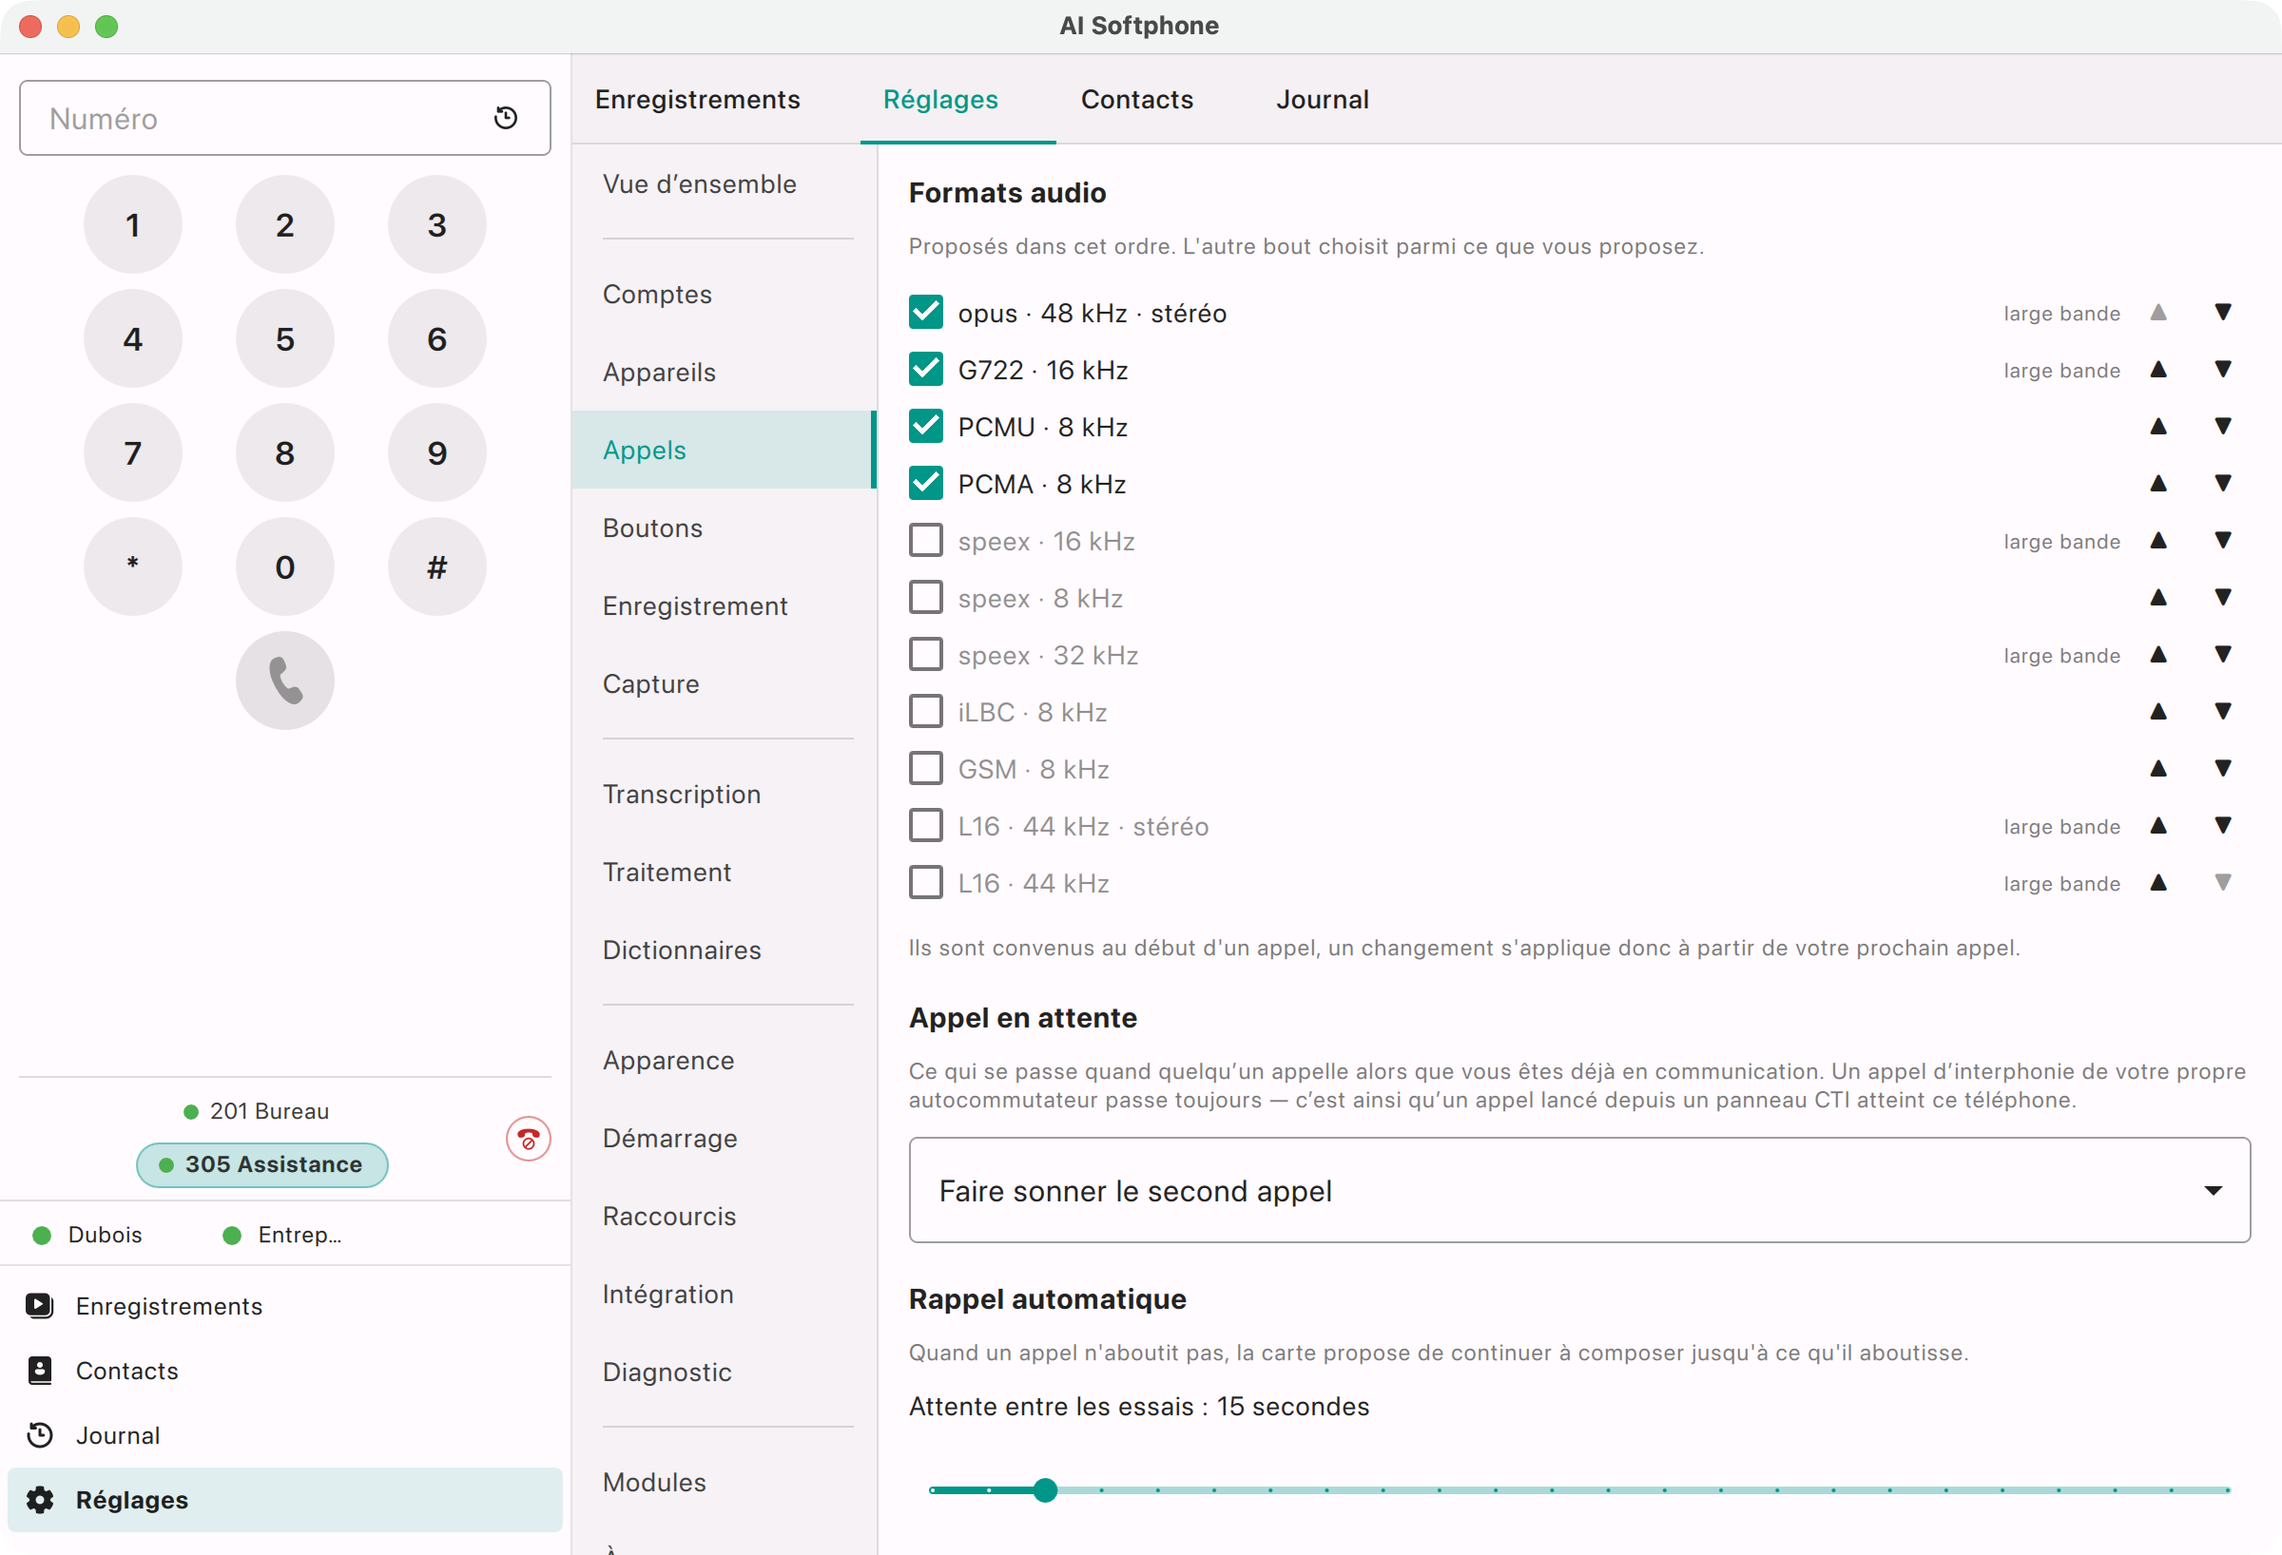
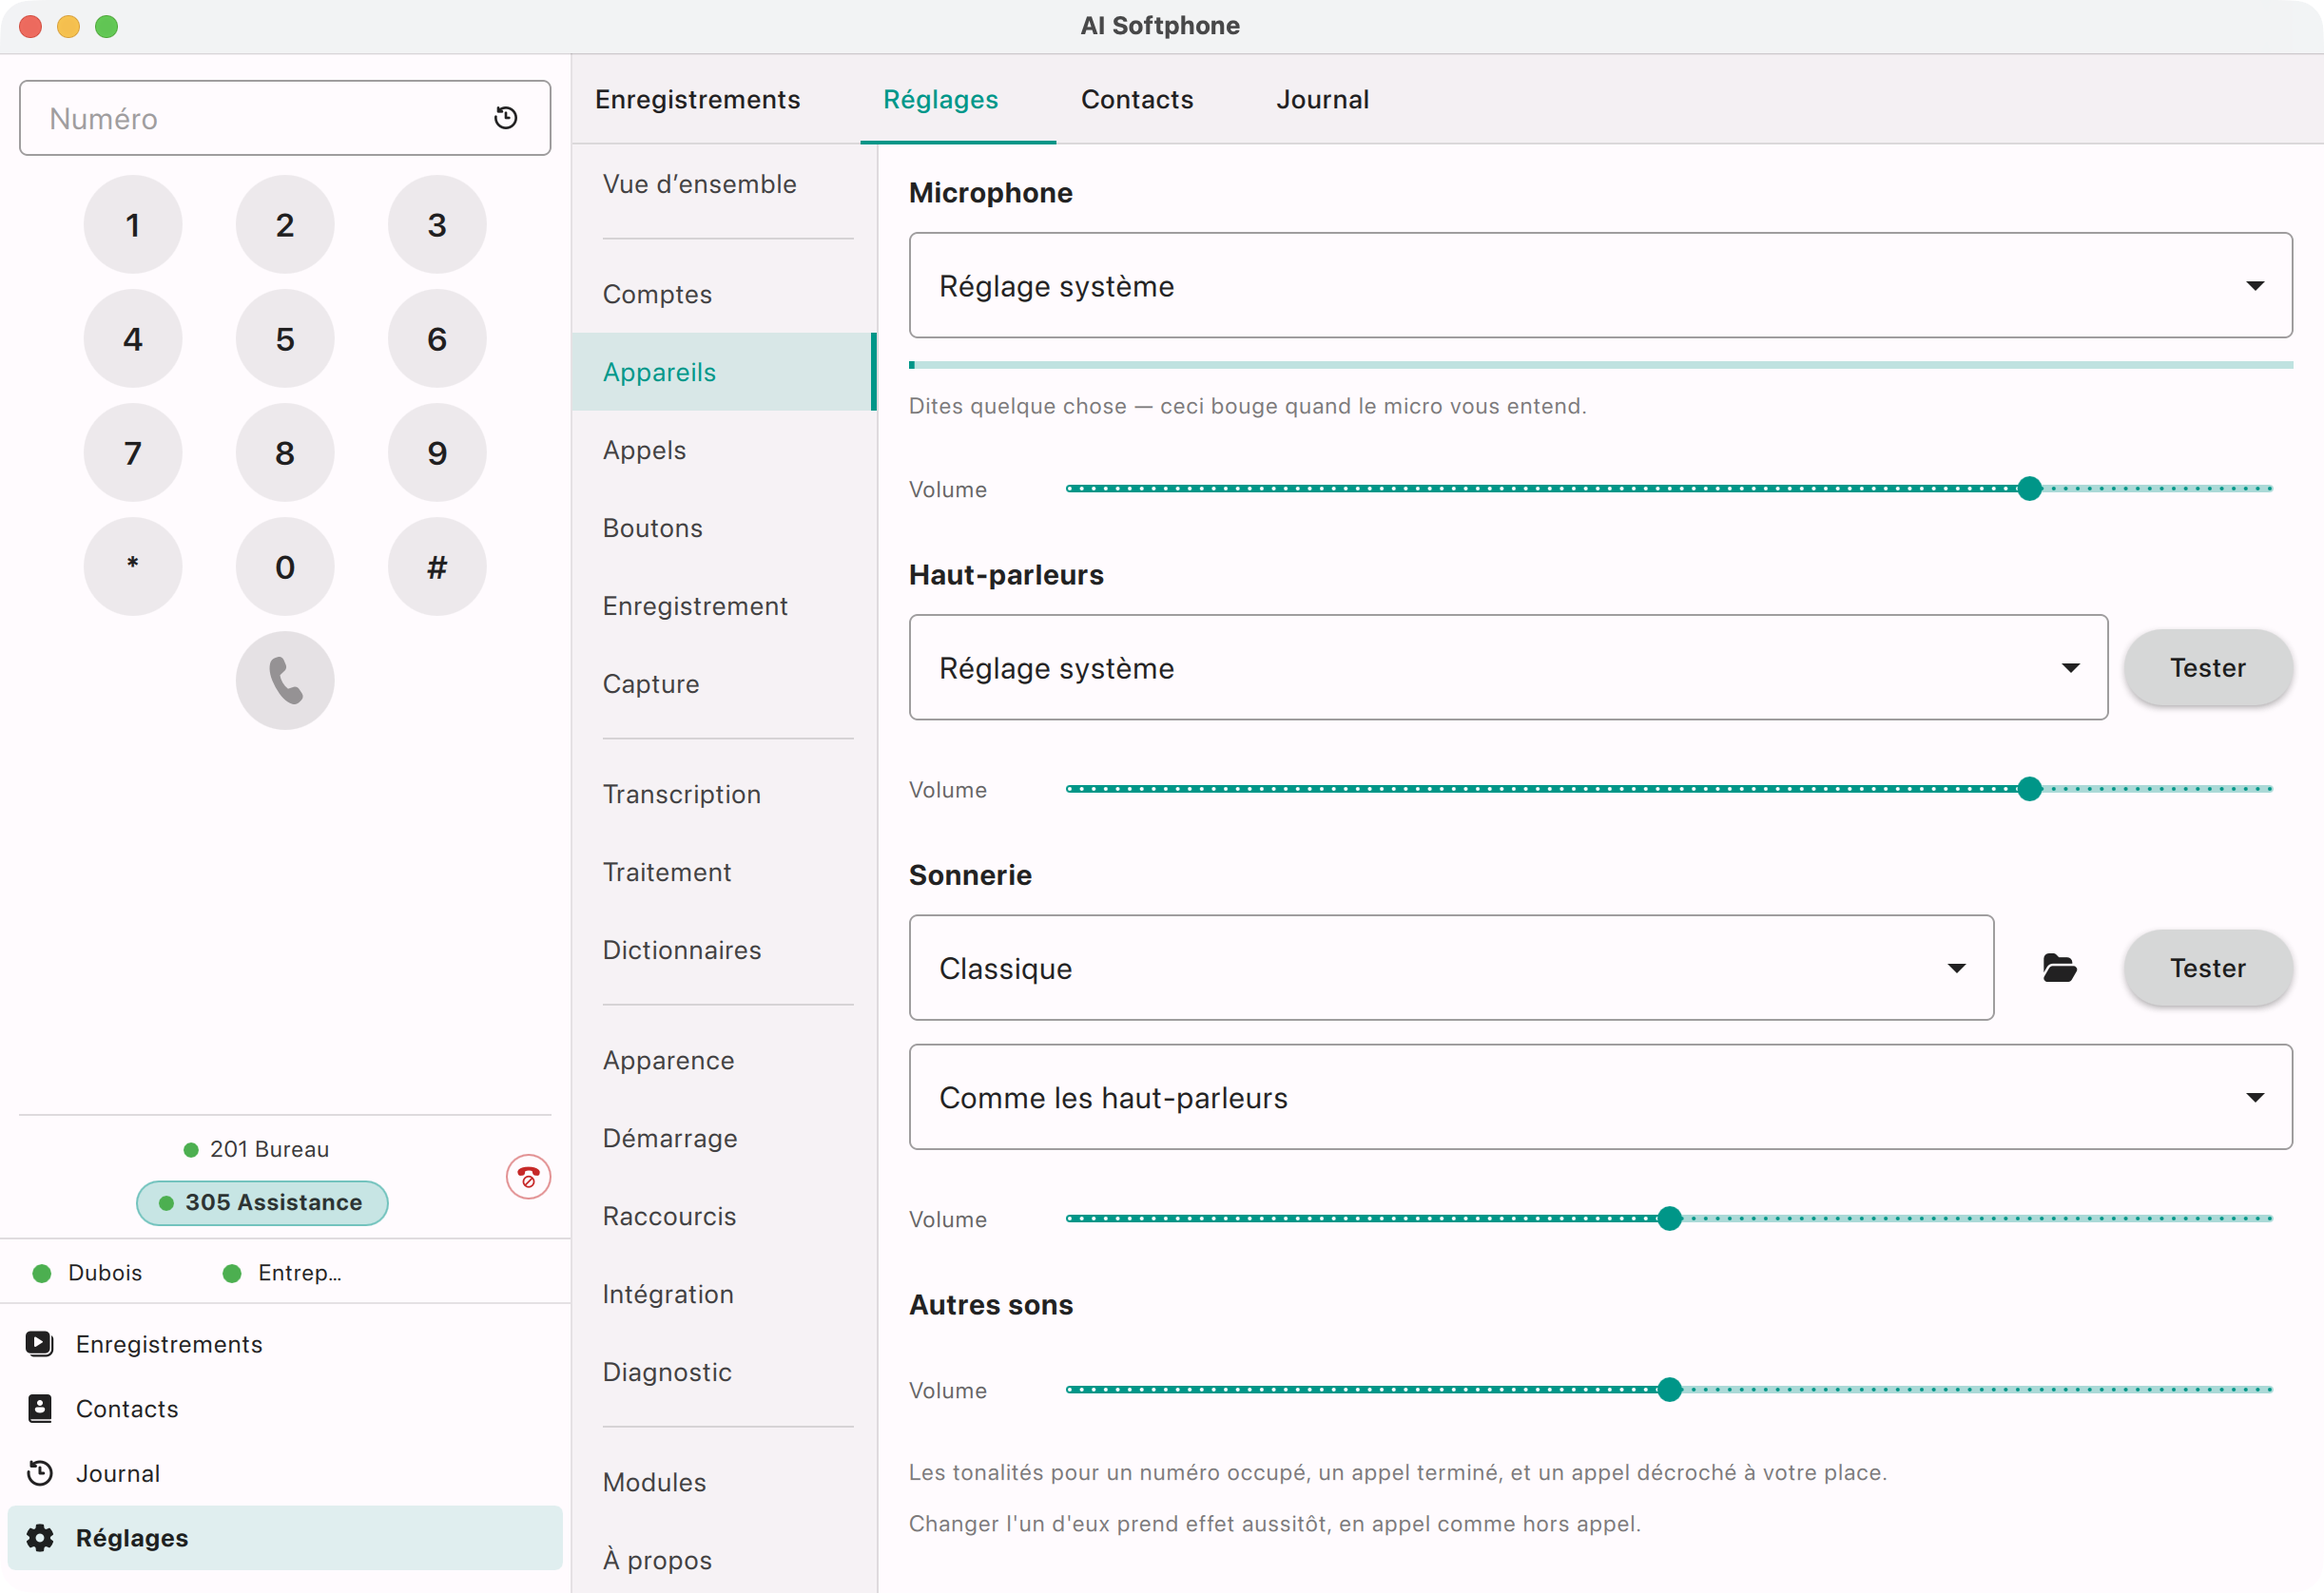
French Devices screenshot, version 1.0.1 in About
The French 06_settings_devices.png was a copy of the Calls tab; it is
now the real Appareils tab (taken from the program in French, with its
thumbnail). The About page of 26 translations said the picture shows
version 1.0.0 while their pictures show 1.0.1.

diff --git a/i18n/uk/docusaurus-plugin-content-docs/current/application/about.md b/i18n/uk/docusaurus-plugin-content-docs/current/application/about.md
@@ -10,7 +10,7 @@ description: Версія, оновлення, ваша країна, ліцен
 
 ## Версія і країна {#version-and-country}
 
-Угорі розташовані назва, **Версія** (на малюнку 1.0.0) і посилання на вебсайт, [ai-softphone.com](https://ai-softphone.com/).
+Угорі розташовані назва, **Версія** (на малюнку 1.0.1) і посилання на вебсайт, [ai-softphone.com](https://ai-softphone.com/).
 
 **Країна** повідомляє програмі, де ви перебуваєте. Це допомагає вибрати найкращий сервер оновлень і відкриває доступ до мовних і мовленнєвих служб, розміщених у вашій країні. **Визначити автоматично** заповнює її.
 

diff --git a/i18n/bg/docusaurus-plugin-content-docs/current/application/about.md b/i18n/bg/docusaurus-plugin-content-docs/current/application/about.md
@@ -10,7 +10,7 @@ description: Версията, обновленията, вашата държа
 
 ## Версия и държава {#version-and-country}
 
-Най-горе са името, **Версия** (на снимката 1.0.0) и връзка към уебсайта, [ai-softphone.com](https://ai-softphone.com/).
+Най-горе са името, **Версия** (на снимката 1.0.1) и връзка към уебсайта, [ai-softphone.com](https://ai-softphone.com/).
 
 **Държава** казва на програмата къде се намирате. Това помага да се избере най-добрият сървър за обновления и отваря пътя към езикови и речеви услуги, разположени във вашата държава. **Открий автоматично** я попълва.
 

diff --git a/i18n/sr/docusaurus-plugin-content-docs/current/application/about.md b/i18n/sr/docusaurus-plugin-content-docs/current/application/about.md
@@ -10,7 +10,7 @@ description: Верзија, ажурирања, ваша држава, лице
 
 ## Верзија и држава {#version-and-country}
 
-На врху су назив, **Верзија** (на слици 1.0.0) и веза ка веб-сајту [ai-softphone.com](https://ai-softphone.com/).
+На врху су назив, **Верзија** (на слици 1.0.1) и веза ка веб-сајту [ai-softphone.com](https://ai-softphone.com/).
 
 **Држава** говори програму где сте. Помаже да се изабере најбољи сервер за ажурирања и отвара пут ка језичким и говорним услугама смештеним у вашој држави. **Откриј самостално** је попуњава.
 

diff --git a/i18n/vi/docusaurus-plugin-content-docs/current/application/about.md b/i18n/vi/docusaurus-plugin-content-docs/current/application/about.md
@@ -10,7 +10,7 @@ description: Phiên bản, cập nhật, quốc gia của bạn, giấy phép, n
 
 ## Phiên bản và quốc gia {#version-and-country}
 
-Ở trên cùng là tên, **Phiên bản** (trong hình là 1.0.0) và liên kết tới trang web, [ai-softphone.com](https://ai-softphone.com/).
+Ở trên cùng là tên, **Phiên bản** (trong hình là 1.0.1) và liên kết tới trang web, [ai-softphone.com](https://ai-softphone.com/).
 
 **Quốc gia** cho chương trình biết bạn đang ở đâu. Nó giúp chọn máy chủ cập nhật tốt nhất, và mở đường tới các dịch vụ ngôn ngữ và giọng nói đặt tại quốc gia của bạn. **Tự động nhận biết** sẽ điền giá trị này.
 

diff --git a/i18n/hu/docusaurus-plugin-content-docs/current/application/about.md b/i18n/hu/docusaurus-plugin-content-docs/current/application/about.md
@@ -10,7 +10,7 @@ A **Beállítások → Névjegy** mindent tartalmaz, ami magáról a programról
 
 ## Verzió és ország {#version-and-country}
 
-Felül a név, a **Verzió** (a képen 1.0.0) és egy hivatkozás a weboldalra, az [ai-softphone.com](https://ai-softphone.com/) címre található.
+Felül a név, a **Verzió** (a képen 1.0.1) és egy hivatkozás a weboldalra, az [ai-softphone.com](https://ai-softphone.com/) címre található.
 
 Az **Ország** megmondja a programnak, hol tartózkodik. Segít kiválasztani a legjobb frissítési kiszolgálót, és utat nyit az országában üzemeltetett nyelvi és beszédszolgáltatások felé. Az **Automatikus felismerés** kitölti.
 

diff --git a/i18n/ro/docusaurus-plugin-content-docs/current/application/about.md b/i18n/ro/docusaurus-plugin-content-docs/current/application/about.md
@@ -10,7 +10,7 @@ description: Versiunea, actualizările, țara dumneavoastră, licența, conținu
 
 ## Versiune și țară {#version-and-country}
 
-În partea de sus se află numele, **Versiunea** (în imagine 1.0.0) și un link către site, [ai-softphone.com](https://ai-softphone.com/).
+În partea de sus se află numele, **Versiunea** (în imagine 1.0.1) și un link către site, [ai-softphone.com](https://ai-softphone.com/).
 
 **Țară** îi spune programului unde vă aflați. Ajută la alegerea celui mai bun server de actualizări și deschide calea către serviciile de limbă și de vorbire găzduite în țara dumneavoastră. **Detectează automat** o completează.
 

diff --git a/i18n/fr/docusaurus-plugin-content-docs/current/application/about.md b/i18n/fr/docusaurus-plugin-content-docs/current/application/about.md
@@ -10,7 +10,7 @@ description: "La version, les mises à jour, votre pays, la licence, le contenu 
 
 ## Version et pays {#version-and-country}
 
-En haut figurent le nom, la **Version** (sur l'image 1.0.0) et un lien vers le site web, [ai-softphone.com](https://ai-softphone.com/).
+En haut figurent le nom, la **Version** (sur l'image 1.0.1) et un lien vers le site web, [ai-softphone.com](https://ai-softphone.com/).
 
 **Pays** indique au programme où vous êtes. Cela aide à choisir le meilleur serveur de mises à jour et ouvre l'accès aux services de langue et de parole hébergés dans votre pays. **Détecter automatiquement** le remplit.
 

diff --git a/i18n/it/docusaurus-plugin-content-docs/current/application/about.md b/i18n/it/docusaurus-plugin-content-docs/current/application/about.md
@@ -10,7 +10,7 @@ description: "La versione, gli aggiornamenti, il suo paese, la licenza, che cosa
 
 ## Versione e paese {#version-and-country}
 
-In alto ci sono il nome, la **Versione** (nell'immagine 1.0.0) e un collegamento al sito web, [ai-softphone.com](https://ai-softphone.com/).
+In alto ci sono il nome, la **Versione** (nell'immagine 1.0.1) e un collegamento al sito web, [ai-softphone.com](https://ai-softphone.com/).
 
 **Paese** dice al programma dove si trova lei. Aiuta a scegliere il server di aggiornamento migliore e apre la strada ai servizi linguistici e vocali ospitati nel suo paese. **Rileva automaticamente** lo compila.
 

diff --git a/i18n/nl/docusaurus-plugin-content-docs/current/application/about.md b/i18n/nl/docusaurus-plugin-content-docs/current/application/about.md
@@ -10,7 +10,7 @@ description: De versie, updates, uw land, de licentie, wat het gebruiksrapport b
 
 ## Versie en land {#version-and-country}
 
-Bovenaan staan de naam, de **Versie** (op de afbeelding 1.0.0) en een koppeling naar de website, [ai-softphone.com](https://ai-softphone.com/).
+Bovenaan staan de naam, de **Versie** (op de afbeelding 1.0.1) en een koppeling naar de website, [ai-softphone.com](https://ai-softphone.com/).
 
 **Land** vertelt het programma waar u bent. Dat helpt bij het kiezen van de beste updateserver en opent de weg naar taal- en spraakdiensten die in uw land worden gehost. **Automatisch bepalen** vult het in.
 

diff --git a/i18n/es/docusaurus-plugin-content-docs/current/application/about.md b/i18n/es/docusaurus-plugin-content-docs/current/application/about.md
@@ -10,7 +10,7 @@ description: La versión, las actualizaciones, su país, la licencia, qué conti
 
 ## Versión y país {#version-and-country}
 
-Arriba están el nombre, la **Versión** (en la imagen, 1.0.0) y un enlace al sitio web, [ai-softphone.com](https://ai-softphone.com/).
+Arriba están el nombre, la **Versión** (en la imagen, 1.0.1) y un enlace al sitio web, [ai-softphone.com](https://ai-softphone.com/).
 
 **País** le dice al programa dónde está usted. Ayuda a elegir el mejor servidor de actualizaciones y abre la puerta a servicios de idioma y de voz alojados en su país. **Detectar automáticamente** lo rellena.
 

diff --git a/i18n/sv/docusaurus-plugin-content-docs/current/application/about.md b/i18n/sv/docusaurus-plugin-content-docs/current/application/about.md
@@ -10,7 +10,7 @@ description: Versionen, uppdateringar, ditt land, licensen, vad användningsrapp
 
 ## Version och land {#version-and-country}
 
-Överst finns namnet, **Version** (på bilden 1.0.0) och en länk till webbplatsen, [ai-softphone.com](https://ai-softphone.com/).
+Överst finns namnet, **Version** (på bilden 1.0.1) och en länk till webbplatsen, [ai-softphone.com](https://ai-softphone.com/).
 
 **Land** talar om för programmet var du är. Det hjälper till att välja den bästa uppdateringsservern och öppnar för språk- och taltjänster som drivs i ditt land. **Ta reda på det automatiskt** fyller i det.
 
